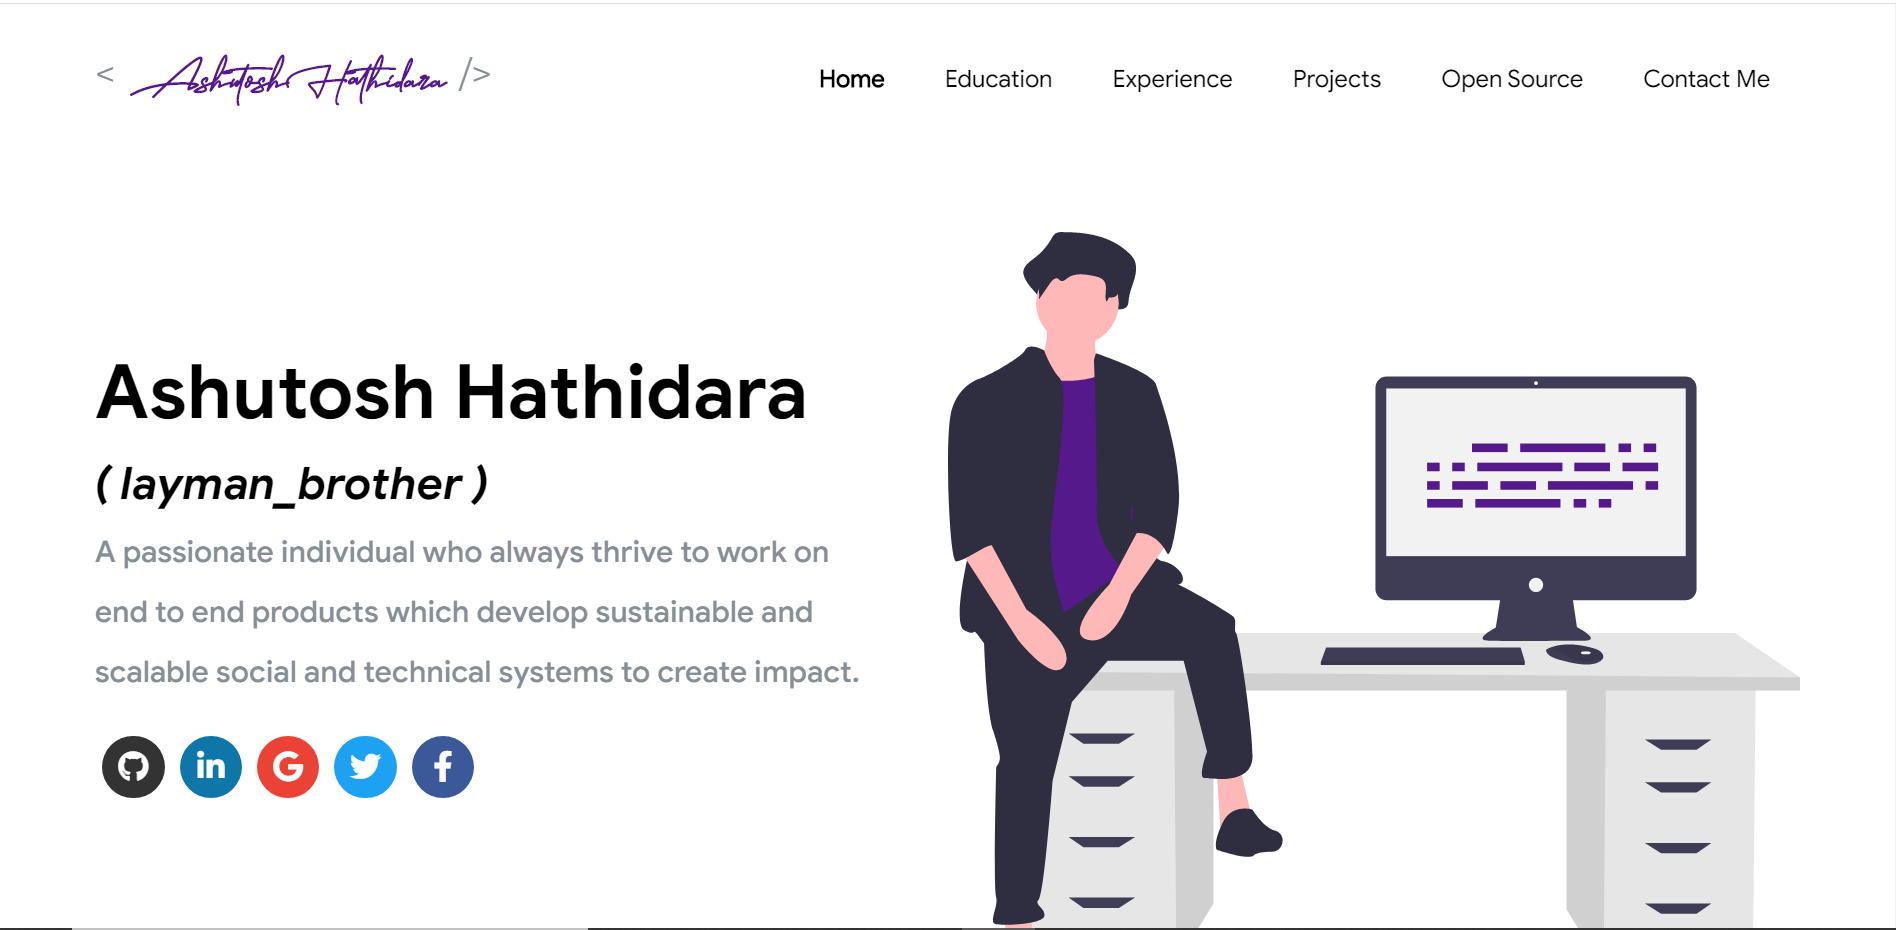
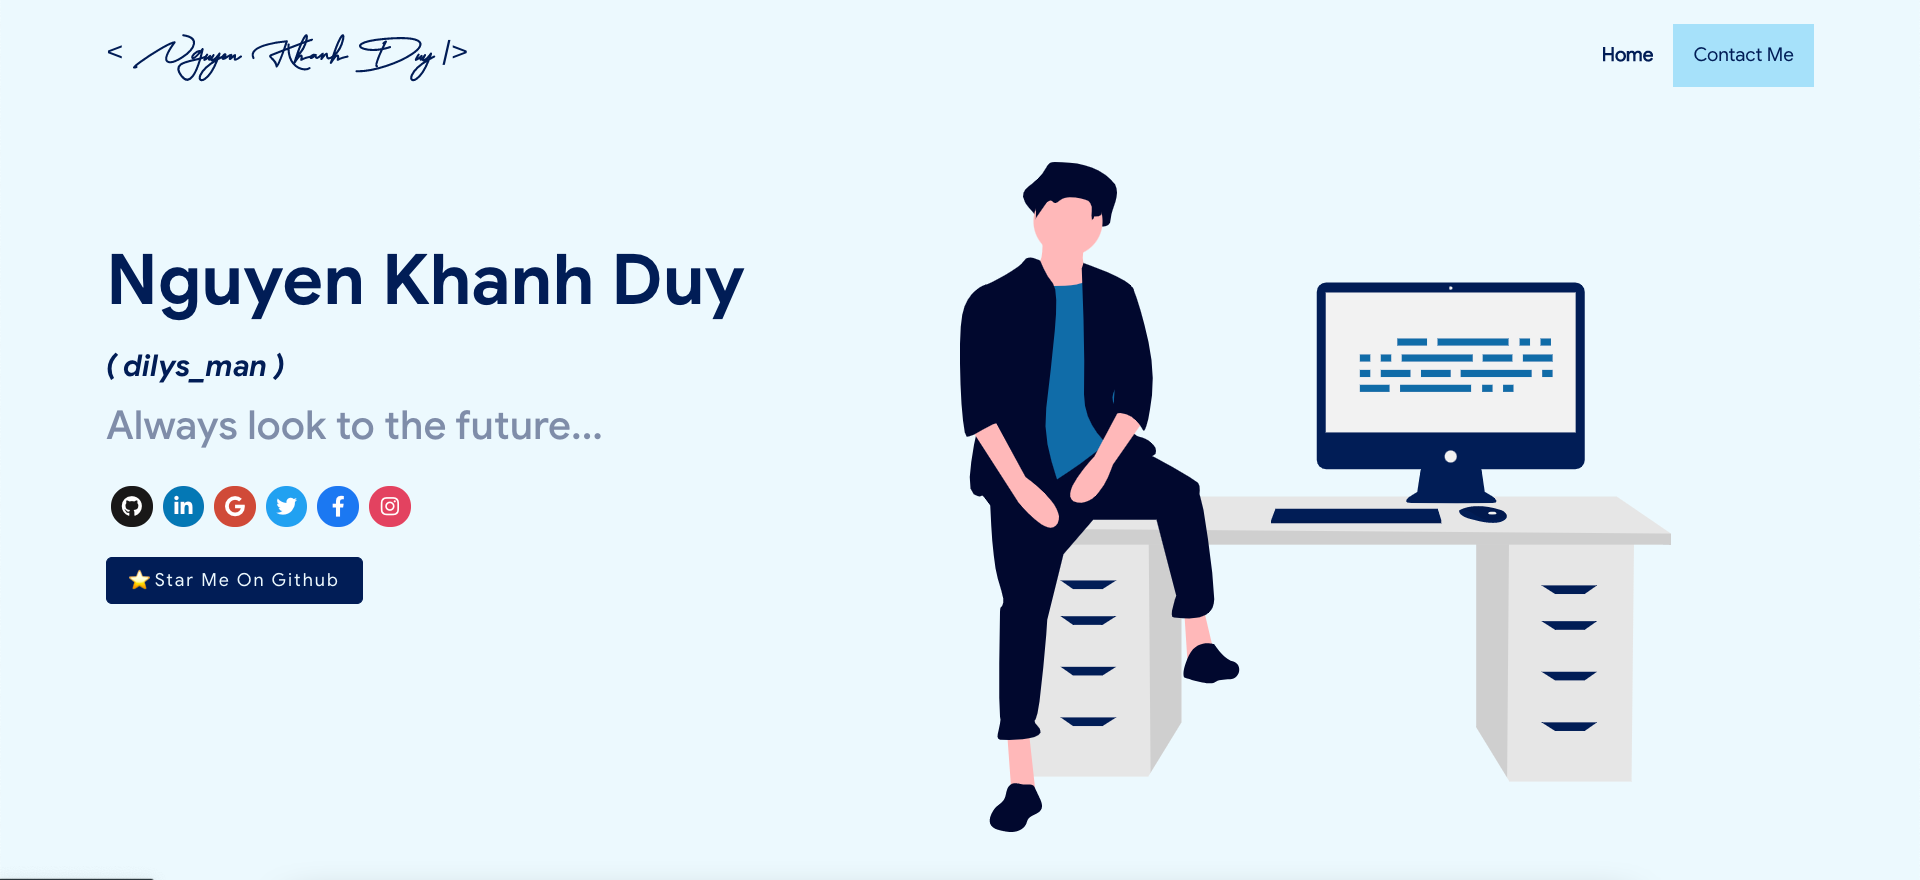
feat : update source

diff --git a/src/pages/contact/ContactComponent.js b/src/pages/contact/ContactComponent.js
@@ -1,4 +1,4 @@
-import React, { Component } from "react";
+import React from "react";
 import Header from "../../components/header/Header";
 import Footer from "../../components/footer/Footer";
 import TopButton from "../../components/topButton/TopButton";
@@ -13,19 +13,22 @@ const ContactData = contactPageData.contactSection;
 const addressSection = contactPageData.addressSection;
 const phoneSection = contactPageData.phoneSection;
 
-const windowHeight = window.innerHeight
+const windowHeight = window.innerHeight;
 const Contact = ({ theme, onToggle }) => {
-  console.log(windowHeight, 'windowHeight');
+  console.log(windowHeight, "windowHeight");
   return (
     <div className="contact-main">
       <Header theme={theme} />
       <div className="basic-contact">
         <Fade bottom duration={1000} distance="40px">
-          <div className="contact-heading-div" style={{ height: windowHeight - 110 + 'px'}}>
+          <div
+            className="contact-heading-div"
+            style={{ height: windowHeight - 110 + "px" }}
+          >
             <div className="contact-heading-img-div">
               <div className="image-custom">
                 <img
-                  style={{ width: "300px", borderRadius: '50%' }}
+                  style={{ width: "300px", borderRadius: "50%" }}
                   src={require(`../../assests/images/${ContactData["profile_image_path"]}`)}
                   alt=""
                 />
@@ -101,7 +104,7 @@ const Contact = ({ theme, onToggle }) => {
       <Footer theme={theme} onToggle={onToggle} />
       <TopButton theme={theme} />
     </div>
-  )
-}
+  );
+};
 
 export default Contact;

diff --git a/README.md b/README.md
@@ -6,26 +6,25 @@
 <h3 align="center"> A clean, beautiful, responsive and 100% customizable portfolio <br /> template for Software Developers! </h3>
 
 <p align="center">
-  <a href="http://hits.dwyl.com/ashutosh1919/masterPortfolio"><img alt="HitCounts" src="http://hits.dwyl.com/ashutosh1919/masterPortfolio.svg" /></a>
+  <a href="http://hits.dwyl.com/nguyenduy98/masterPortfolio"><img alt="HitCounts" src="http://hits.dwyl.com/nguyenduy98/masterPortfolio.svg" /></a>
   <a href="https://nodejs.org/en/blog/release/v12.13.0/"><img alt="NodeJS" src="https://img.shields.io/badge/node-12.14.1-important?style=flat-square" /></a>
   <a href="https://www.npmjs.com/package/npm/v/6.13.4"><img alt="NPM" src="https://img.shields.io/badge/npm-6.13.7-blueviolet?style=flat-square" /></a>
   <a href="https://reactjs.org/"><img alt="Made With React" src="https://img.shields.io/badge/made%20with-react-61DAFB?style=flat-square" /></a>
   <a href="https://join.slack.com/t/masterportfolio/shared_invite/zt-g772n1fo-Ns4usanURF8jVb8wk2lRAA"><img alt="Join Slack Channel For Support" src="https://img.shields.io/badge/slack-masterPortfolio-yellow.svg?logo=slack?style=flat-square" /></a>
   <a href="https://github.com/prettier/prettier"><img alt="code style: prettier" src="https://img.shields.io/badge/code_style-prettier-ff69b4.svg?style=flat-square?style=flat-square" /></a>
   <br/>
-  <a href="https://app.netlify.com/sites/ashutosh1919portfolio/deploys"><img alt="Netlify Status" src="https://api.netlify.com/api/v1/badges/abf59f82-3251-4040-b24c-949b86691642/deploy-status?style=flat-square" /></a>
+  <a href="https://app.netlify.com/sites/nguyenduy98portfolio/deploys"><img alt="Netlify Status" src="https://api.netlify.com/api/v1/badges/abf59f82-3251-4040-b24c-949b86691642/deploy-status?style=flat-square" /></a>
   <a href="https://travis-ci.org/badges/badgerbadgerbadger"><img alt="Build Status" src="http://img.shields.io/travis/badges/badgerbadgerbadger.svg?style=flat-square?style=flat-square" /></a>
   <a href="http://badges.mit-license.org/"><img alt="License" src="http://img.shields.io/:license-mit-blue.svg?style=flat-square?style=flat-square" /></a>
-  <a href="https://github.com/ashutosh1919/masterPortfolio/commits/master"><img alt="Maintenance" src="https://img.shields.io/badge/maintained-yes-green.svg?style=flat-square" /></a>
+  <a href="https://github.com/nguyenduy98/masterPortfolio/commits/master"><img alt="Maintenance" src="https://img.shields.io/badge/maintained-yes-green.svg?style=flat-square" /></a>
   <a href="http://badges.mit-license.org/"><img alt="Website" src="https://img.shields.io/badge/website-up-yellow?style=flat-square" /></a>
   <a href="https://ashutoshhathidara.com/"><img alt="License" src="http://img.shields.io/:license-mit-blue.svg?style=flat-square?style=flat-square" /></a>
   <a href="https://img.shields.io/badge/price-free-ff69b4"><img alt="Price" src="https://img.shields.io/badge/price-free-ff69b4?style=flat-square" /></a>
 </p>
-<p align="center">If you want to discuss about something, then you can ask on my <a href="https://discord.com/invite/GkcbM5bwZr">Discord Server</a>.</p>
 
 <p align="center"> 
-    <a href="https://ashutosh1919.github.io" target="_blank">
-    <img src="images/masterPortfolioThemes.png"></img>
+    <a href="https://nguyenduy98.github.io" target="_blank">
+    <img src="images/old-landing-page.png"></img>
   </a>
 </p>
 
@@ -42,7 +41,7 @@
 ✔ Education\
 ✔ Contact me
 
-To view a live example, **[click here](https://ashutosh1919.github.io/)**
+To view a live example, **[click here](https://nguyenduy98.github.io/)**
 
 # Clone And Use 📋
 
@@ -51,7 +50,7 @@ To view a live example, **[click here](https://ashutosh1919.github.io/)**
 - In case you want to help developing it or simply saving it, you can fork the repository just by clicking the button on the top-right corner of this page.
 - After the successful installation of `nodejs` and `npm`, clone the repository into your local system using below command:
   - ```python
-     git clone https://github.com/ashutosh1919/masterPortfolio.git
+     git clone https://github.com/nguyenduy98/masterPortfolio.git
     ```
   - This will clone the whole repository in your system.
 - To download required dependencies to your system, navigate to the directory where the cloned repository resides and execute following command:
@@ -115,7 +114,7 @@ Whenever you want to update the github related information on the website you ne
 
 ### Splash Logo
 
-Note here that if you click [my portfolio](https://ashutosh1919.github.io), you can see animating the logo at the beginning. I have designed that logo in [`Figma`](https://www.figma.com/) and then animated it using css.
+Note here that if you click [my portfolio](https://nguyenduy98.github.io), you can see animating the logo at the beginning. I have designed that logo in [`Figma`](https://www.figma.com/) and then animated it using css.
 Therefore, this part of portfolio is not customizable. But don't worry we have a solution to this problem. You have below two alternatives:
 
 - If you want to design your own logo, then you can design it using `Figma` or `Adobe XD` or `Adobe Illustrator` or `Inkscape`. If you want to animate it, you can refer to `./src/components/Loader` directory which contains `js` and `css` files which animates the logo.
@@ -161,14 +160,7 @@ Therefore, this part of portfolio is not customizable. But don't worry we have a
 - Run `npm run deploy` to build and create a branch called `gh-pages`. It will push the `build` files to that branch.
 - The last step in deploying is to enable `Github Pages` in settings of the repository and select `gh-pages` branch.
 
-Now, your website is successfully deployed and you can visit it at `<your-github-username>.github.io`.  
-If you are stuck somewhere and want to observe the deployment process in depth, then please watch below video.
-
-<p align="center"> 
-    <a href="http://www.youtube.com/watch?v=IwBS39TOmpA" target="_blank">
-    <img src="http://img.youtube.com/vi/IwBS39TOmpA/0.jpg"></img>
-  </a>
-</p>
+Now, your website is successfully deployed and you can visit it at `<your-github-username>.github.io`.
 
 # Technologies used 🛠
 
@@ -186,45 +178,6 @@ If you are stuck somewhere and want to observe the deployment process in depth, 
 # License 📄
 
 This project is licensed under the MIT License - see the [LICENSE.md](./LICENSE) file for details.
-
-# Contributing 💡
-
-If you can help us with these. Please don't hesitate to open an [pull request](https://github.com/ashutosh1919/masterPortfolio/pulls) or [issue](https://github.com/ashutosh1919/masterPortfolio/issues).
-
-- Move to Gatsby
-- Add Podcast Section and Video Section
-- Add tests to automate review.
-- Setup Travis workflow.
-
-# Contributors ✨
-
-<!-- ALL-CONTRIBUTORS-LIST:START - Do not remove or modify this section -->
-<!-- prettier-ignore-start -->
-<!-- markdownlint-disable -->
-<table>
-  <tr>
-    <td align="center"><a href="http://ashutosh1919.github.io"><img src="https://avatars3.githubusercontent.com/u/20843596?s=460&u=7f184b911f73ae1dc5765ab686fff2b2e984830f&v=4?s=100" width="100px;" alt=""/><br /><sub><b>Ashutosh Hathidara</b></sub></a><br /><a href="https://github.com/ashutosh1919/masterPortfolio/commits?author=ashutosh1919" title="Code">💻</a> <a href="https://github.com/ashutosh1919/masterPortfolio/commits?author=ashutosh1919" title="Documentation">📖</a> <a href="#design-ashutosh1919" title="Design">🎨</a> <a href="#maintenance-ashutosh1919" title="Maintenance">🚧</a> <a href="#ideas-ashutosh1919" title="Ideas, Planning, & Feedback">🤔</a></td>
-    <td align="center"><a href="https://danielmarostica.github.io/"><img src="https://avatars3.githubusercontent.com/u/3595998?v=4?s=100" width="100px;" alt=""/><br /><sub><b>Daniel Marostica</b></sub></a><br /><a href="https://github.com/ashutosh1919/masterPortfolio/commits?author=danielmarostica" title="Documentation">📖</a> <a href="#design-danielmarostica" title="Design">🎨</a></td>
-    <td align="center"><a href="https://dineshnadimpalli.com"><img src="https://avatars2.githubusercontent.com/u/13104926?v=4?s=100" width="100px;" alt=""/><br /><sub><b>Dinesh Nadimpalli</b></sub></a><br /><a href="https://github.com/ashutosh1919/masterPortfolio/commits?author=dineshnadimpalli" title="Code">💻</a></td>
-    <td align="center"><a href="http://jivthesh.github.io"><img src="https://avatars3.githubusercontent.com/u/20579980?v=4?s=100" width="100px;" alt=""/><br /><sub><b>Jivthesh M R</b></sub></a><br /><a href="https://github.com/ashutosh1919/masterPortfolio/commits?author=jivthesh" title="Documentation">📖</a></td>
-    <td align="center"><a href="http://jatinchauhan.tech"><img src="https://avatars2.githubusercontent.com/u/40722235?v=4?s=100" width="100px;" alt=""/><br /><sub><b>Jatin Chauhan</b></sub></a><br /><a href="https://github.com/ashutosh1919/masterPortfolio/commits?author=mrjatinchauhan" title="Code">💻</a></td>
-    <td align="center"><a href="https://th3c0d3br34ker.github.io/"><img src="https://avatars1.githubusercontent.com/u/60807938?v=4?s=100" width="100px;" alt=""/><br /><sub><b>Jainam Desai</b></sub></a><br /><a href="https://github.com/ashutosh1919/masterPortfolio/commits?author=th3c0d3br34ker" title="Code">💻</a> <a href="#question-th3c0d3br34ker" title="Answering Questions">💬</a></td>
-    <td align="center"><a href="https://miftaulmannan.wordpress.com/"><img src="https://avatars0.githubusercontent.com/u/42533823?v=4?s=100" width="100px;" alt=""/><br /><sub><b>Miftaul Mannan</b></sub></a><br /><a href="https://github.com/ashutosh1919/masterPortfolio/commits?author=Tasin5541" title="Code">💻</a></td>
-  </tr>
-  <tr>
-    <td align="center"><a href="http://a-mishra.github.io"><img src="https://avatars0.githubusercontent.com/u/10567548?v=4?s=100" width="100px;" alt=""/><br /><sub><b>Ashutosh Mishra</b></sub></a><br /><a href="https://github.com/ashutosh1919/masterPortfolio/commits?author=a-mishra" title="Code">💻</a></td>
-    <td align="center"><a href="http://tamojit.wixsite.com/mrtamojit"><img src="https://avatars0.githubusercontent.com/u/40804626?v=4?s=100" width="100px;" alt=""/><br /><sub><b>Tamojit</b></sub></a><br /><a href="https://github.com/ashutosh1919/masterPortfolio/commits?author=tamojit-123" title="Documentation">📖</a></td>
-    <td align="center"><a href="https://prabin-karki.com.np"><img src="https://avatars.githubusercontent.com/u/43983896?v=4?s=100" width="100px;" alt=""/><br /><sub><b>Prabin Karki</b></sub></a><br /><a href="https://github.com/ashutosh1919/masterPortfolio/commits?author=githubprabin143" title="Code">💻</a></td>
-    <td align="center"><a href="https://praveen.science/"><img src="https://avatars.githubusercontent.com/u/1830380?v=4?s=100" width="100px;" alt=""/><br /><sub><b>Praveen Kumar Purushothaman</b></sub></a><br /><a href="https://github.com/ashutosh1919/masterPortfolio/commits?author=praveenscience" title="Documentation">📖</a></td>
-    <td align="center"><a href="http://baul.ml"><img src="https://avatars.githubusercontent.com/u/33395806?v=4?s=100" width="100px;" alt=""/><br /><sub><b>paul</b></sub></a><br /><a href="https://github.com/ashutosh1919/masterPortfolio/commits?author=baulml" title="Code">💻</a></td>
-    <td align="center"><a href="https://github.com/SandipDhang"><img src="https://avatars.githubusercontent.com/u/50694884?v=4?s=100" width="100px;" alt=""/><br /><sub><b>Sandip Dhang</b></sub></a><br /><a href="https://github.com/ashutosh1919/masterPortfolio/commits?author=SandipDhang" title="Code">💻</a></td>
-  </tr>
-</table>
-
-<!-- markdownlint-restore -->
-<!-- prettier-ignore-end -->
-
-<!-- ALL-CONTRIBUTORS-LIST:END -->
 
 # References 👏🏻
 
